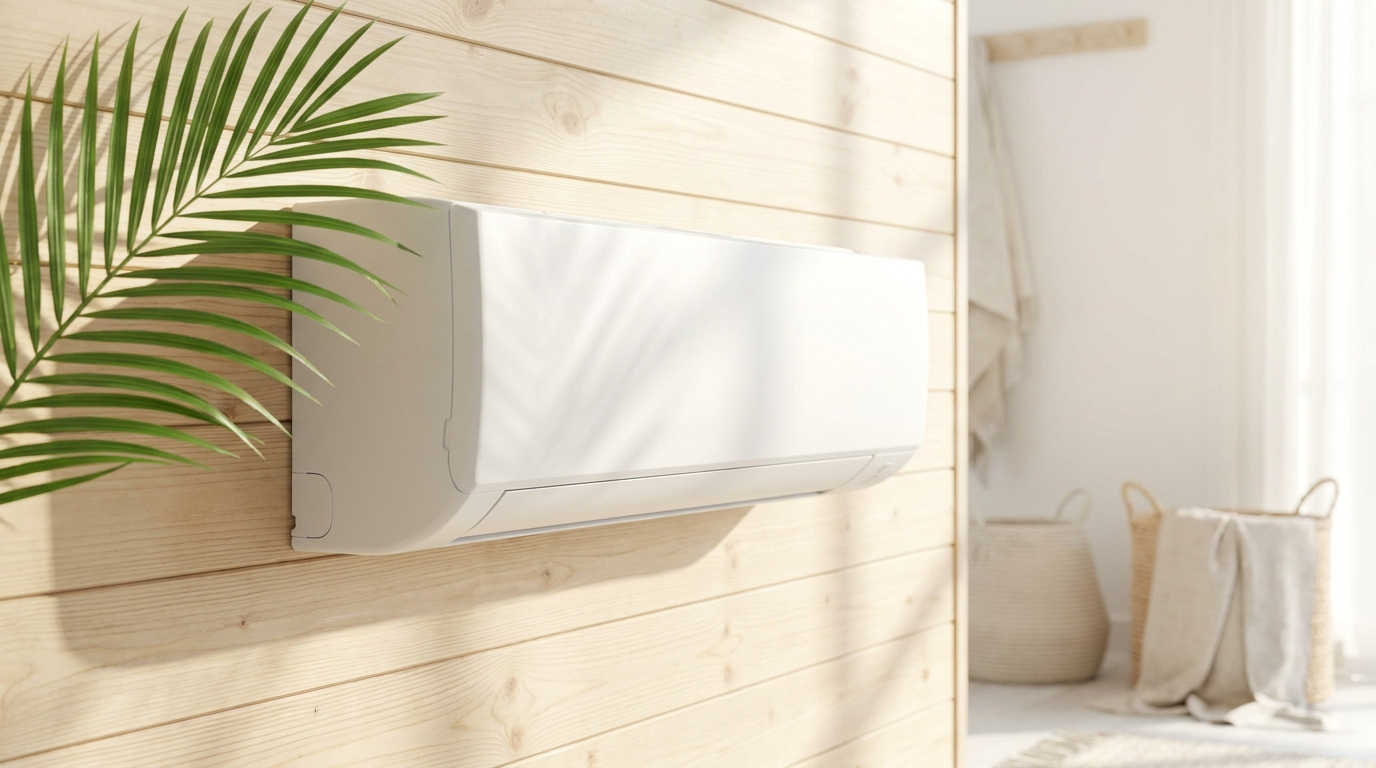
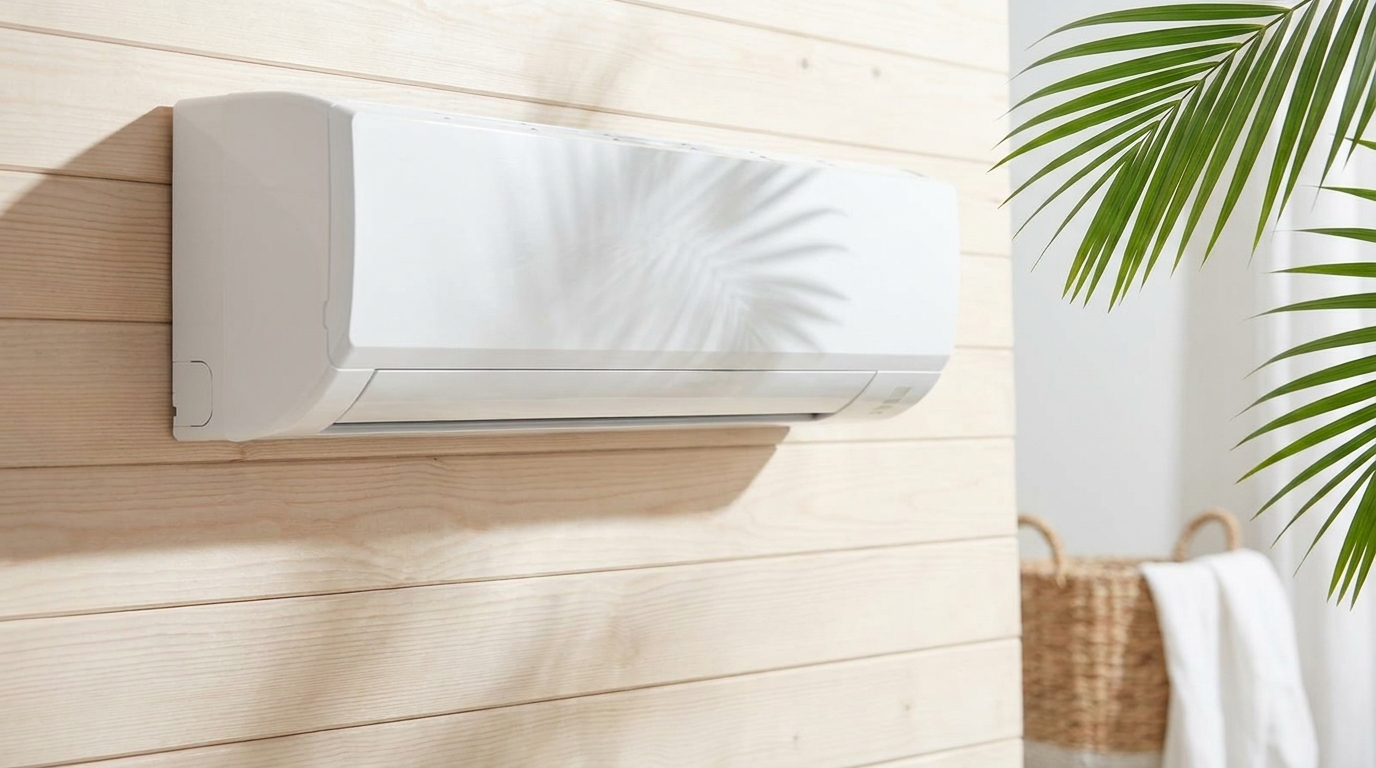
After画像更新・スクロールでAfter拡大・風を薄く
- Before/AfterのAfterを新素材(白い新品エアコン+ヤシ+木壁)に差し替え
- スクロール連動の向きを反転：下にスクロールするほどAfter(右)の幅が広がる
- 背景の風の線を薄め(alpha 0.10〜0.25)に

diff --git a/assets/site.js b/assets/site.js
@@ -249,7 +249,8 @@
         if (r.bottom < 0 || r.top > vh) return;
         var progress = (vh - r.top) / (vh + r.height);   // 0(入る前)→1(抜けた後)
         progress = Math.max(0, Math.min(1, progress));
-        setPos(12 + progress * 76);
+        // 下にスクロールするほど After(右) の幅が広がる（仕切りが左へ）
+        setPos(88 - progress * 76);
       }
       window.addEventListener('scroll', onScrollBA, { passive: true });
       onScrollBA();
@@ -322,7 +323,7 @@
         return {
           x: x, y: y,
           sp: (1.0 + Math.random() * 1.4) * DPR,        // 右方向の基本風速
-          a: 0.20 + Math.random() * 0.28,               // 線の濃さ（背面なので少しはっきり）
+          a: 0.10 + Math.random() * 0.15,               // 線の濃さ（薄め）
           w: (1.2 + Math.random() * 1.4) * DPR,         // 線の太さ
           maxT: 12 + (Math.random() * 12 | 0),          // 軌跡の長さ
           trail: [{ x: x, y: y }]
